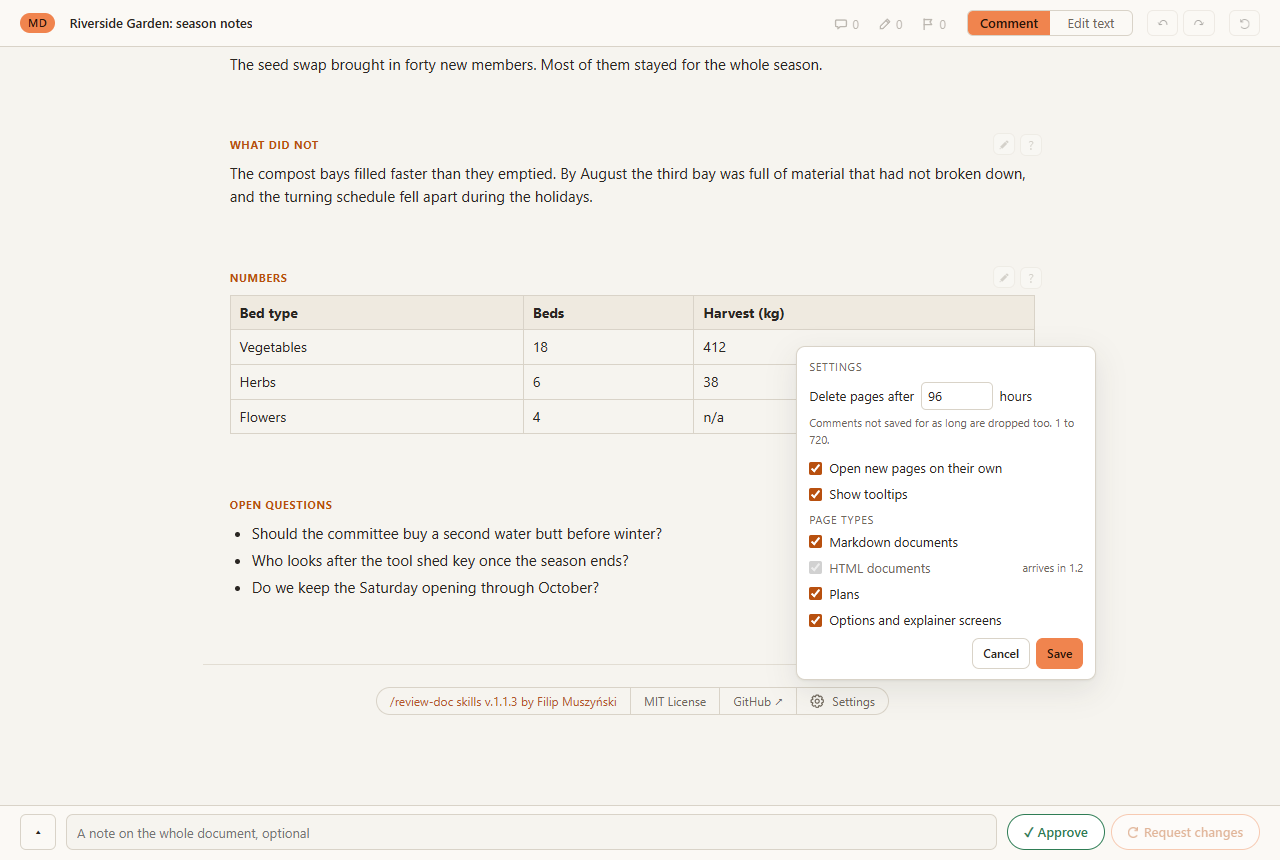
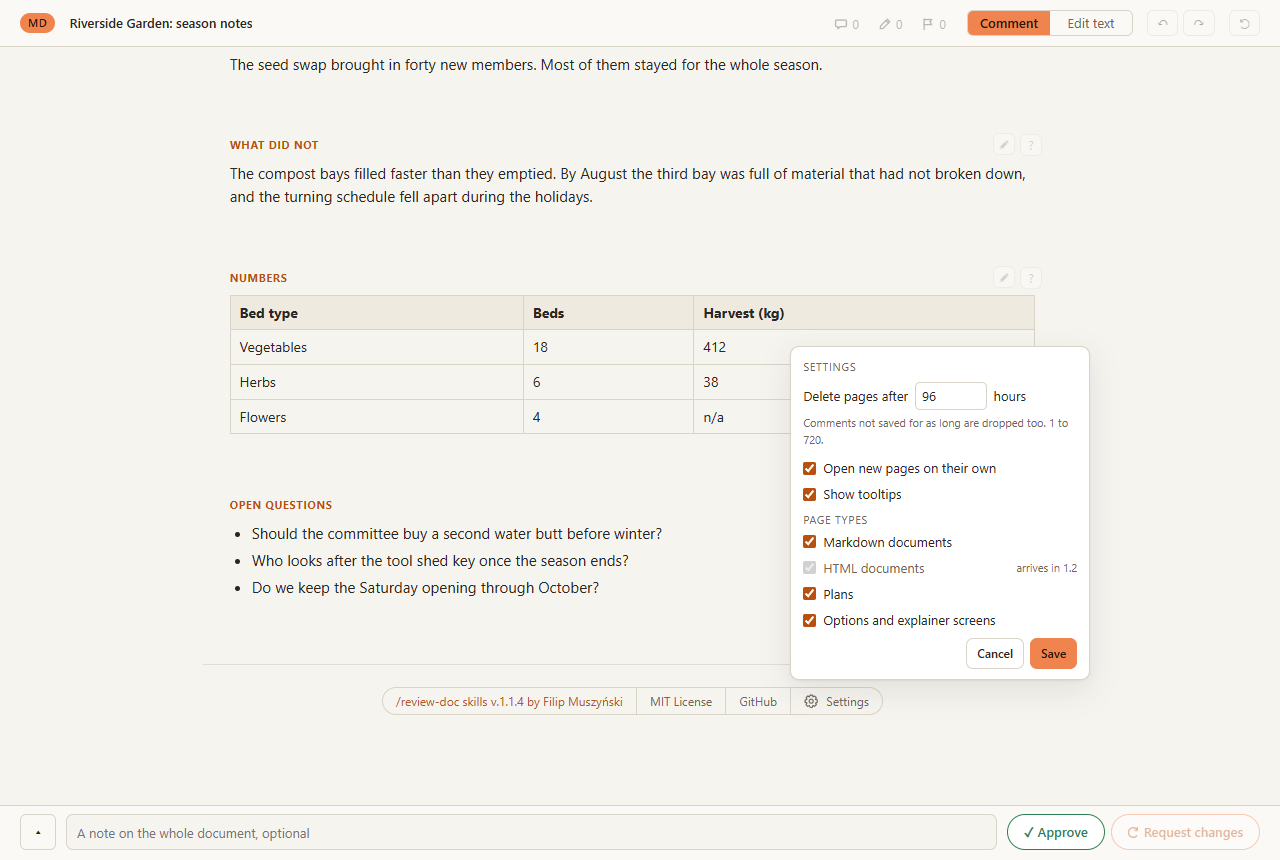
review-doc 1.1.4
Round button at the counters' 5px gap; At a glance buttons on the heading line;
glance cells lower and centred; GitHub credit without the arrow. Screenshots retaken.

Changed region(s): [[0.5938, 0.4233, 0.875, 0.8465], [0.3125, 0.786, 0.4688, 0.8465], [0.5, 0.786, 0.5625, 0.8465]]

diff --git a/plugins/review-doc/presenter/assets/shell.css b/plugins/review-doc/presenter/assets/shell.css
@@ -168,14 +168,16 @@ header > .doc-title { flex-shrink: 1; }
 }
 
 /* The counters are also the navigation, so they have to read as buttons. */
-.counters { display: flex; gap: 5px; }
+.counters { display: flex; gap: var(--counter-gap, 5px); }
 /* The scope toggle, right of the counters: three icons in one box, only the
    current one opaque, so a click cross-fades instead of swapping. It fades in
    the first time a page has an earlier round, growing from no width and taking
    back the row gap in front of it as it goes, so the mode switch slides over
-   instead of jumping. */
-.controls { --ctl-gap: 14px; }
-#cycle-scope { position: relative; width: 30px; padding: 0; display: inline-grid; place-items: center; }
+   instead of jumping. It stands as close to the counters as they stand to each
+   other: the negative margin takes the row gap back down to the counters' gap. */
+.controls { --ctl-gap: 14px; --counter-gap: 5px; }
+#cycle-scope { position: relative; width: 30px; padding: 0; display: inline-grid; place-items: center;
+               margin-left: calc(var(--counter-gap) - var(--ctl-gap)); }
 /* No frame either: the icon is drawn in the edit orange, the colour of the
    current round's marks, and hover lays the same orange plate as the edit
    counter. The id beats .iconbtn, so its border and hover need no !important. */
@@ -191,7 +193,7 @@ header > .doc-title { flex-shrink: 1; }
 #cycle-scope[data-scope="all"] .sc-all { opacity: 1; }
 @keyframes scope-in {
   from { opacity: 0; width: 0; margin-left: calc(-1 * var(--ctl-gap, 14px)); }
-  to { opacity: 1; width: 30px; margin-left: 0; }
+  to { opacity: 1; width: 30px; margin-left: calc(var(--counter-gap, 5px) - var(--ctl-gap, 14px)); }
 }
 @media (prefers-reduced-motion: reduce) {
   #cycle-scope.is-new { animation: none; }
@@ -648,8 +650,14 @@ main { min-height: 0; }
 .sec[data-sec="__meta"] td > :last-child { margin-bottom: 0; }
 .sec.glance .glance-notes { margin-bottom: .9em; }
 .sec.glance .glance-notes > :first-child { margin-top: 0; }
-.sec.glance td > :first-child { margin-top: 0; }
-.sec.glance td > :last-child { margin-bottom: 0; }
+/* A document's cell holds a paragraph, and `#doc p` gives it a bottom margin
+   that outweighs a class rule, which left an empty strip under every value.
+   The #doc prefix wins it back. The text then sits in the middle of its cell,
+   in plans too, with a little less padding than an ordinary table. */
+#doc .sec.glance td > :first-child, #doc .sec[data-sec="__meta"] td > :first-child { margin-top: 0; }
+#doc .sec.glance td > :last-child, #doc .sec[data-sec="__meta"] td > :last-child { margin-bottom: 0; }
+#doc .sec.glance th, #doc .sec.glance td,
+#doc .sec[data-sec="__meta"] th, #doc .sec[data-sec="__meta"] td { vertical-align: middle; padding-top: .36em; padding-bottom: .36em; }
 .sec-tools { margin-left: auto; display: flex; gap: calc(15px * var(--zoom, 1) * .37); align-items: center; }
 
 /* The controls stay quiet until the section is hovered or a decision is on
@@ -691,8 +699,11 @@ main { min-height: 0; }
 /* The heading sits where the eyebrow sat, on the line of the tick and the
    pencil, so their row is lifted out of the flow and pinned top right. Only
    when the block has a heading: an intro's tools would otherwise sit on top
-   of its first line. */
-.plain .sec:has(> h2[data-sec], > h3[data-sec]) > .sec-tag {
+   of its first line. The At a glance box's heading carries no data-sec (its
+   block is the intro's), so it is named here as well, or its ✎ and ? would
+   stand on a row of their own above "At a glance". */
+.plain .sec:has(> h2[data-sec], > h3[data-sec]) > .sec-tag,
+.plain .sec.glance > .sec-tag {
   position: absolute;
   top: .91em;
   right: 1.73em;

diff --git a/plugins/review-doc/tests/run.py b/plugins/review-doc/tests/run.py
@@ -796,7 +796,9 @@ def test_section_headings_are_lettered_as_the_eyebrow():
                  "font-weight: 700;", "color: var(--accent-ink);"):
         assert decl in rule, decl
     assert '#doc .plain .sec[data-kind="task"] > h2[data-sec],' in css, "tasks keep the eyebrow blue"
-    assert ".plain .sec:has(> h2[data-sec], > h3[data-sec]) > .sec-tag {" in css,         "the heading shares the line of the tick and pencil"
+    assert (".plain .sec:has(> h2[data-sec], > h3[data-sec]) > .sec-tag,\n"
+            ".plain .sec.glance > .sec-tag {") in css, \
+        "the heading shares the line of the tick and pencil, in the At a glance box too"
     doc = css.split(chr(10) + "#doc {")[1].split("}")[0]
     assert "padding: 28px 20px 90px;" in doc, "a section frame keeps 20px from the edge"
     sub = css.split('.plain .sec[data-kind="sub"] {')[1].split("}")[0]
@@ -2120,6 +2122,10 @@ def test_scope_button_slides_in_from_nothing():
     assert "opacity: 0" in frm and "width: 0" in frm, kf
     assert "margin-left: calc(-1 * var(--ctl-gap, 14px))" in frm, "the gap closes too, so the switch slides"
     assert "--ctl-gap: 8px" in c, "the narrow header has the smaller gap"
+    to = kf[kf.index(" to "):]
+    assert "margin-left: calc(var(--counter-gap, 5px) - var(--ctl-gap, 14px))" in to, kf
+    assert ".counters { display: flex; gap: var(--counter-gap, 5px); }" in c
+    assert "margin-left: calc(var(--counter-gap) - var(--ctl-gap));" in c, "it sits at the counters' gap"
     rm = c[c.index("#cycle-scope.is-new { animation: scope-in"):]
     rm = rm[rm.index("@media (prefers-reduced-motion: reduce)"):]
     assert "#cycle-scope.is-new { animation: none; }" in rm[:200]

diff --git a/plugins/review-doc/tests/test_page.py b/plugins/review-doc/tests/test_page.py
@@ -227,6 +227,16 @@ def test_glance_blocks_sit_tight_in_their_cells():
 
 
 @test
+def test_glance_cells_centre_their_text():
+    c = css()
+    # `#doc p` carries a bottom margin at (1,0,1); without the #doc prefix the
+    # document box's paragraphs kept it and every cell had an empty strip.
+    assert "#doc .sec.glance td > :last-child, #doc .sec[data-sec=\"__meta\"] td > :last-child { margin-bottom: 0; }" in c
+    rule = c.split("#doc .sec[data-sec=\"__meta\"] th, #doc .sec[data-sec=\"__meta\"] td {", 1)[1].split("}", 1)[0]
+    assert "vertical-align: middle;" in rule, rule
+
+
+@test
 def test_tooltips_can_be_switched_off():
     src = js()
     show = src.split("function showTip(el) {", 1)[1][:200]

diff --git a/plugins/review-doc/presenter/shell.py b/plugins/review-doc/presenter/shell.py
@@ -180,7 +180,7 @@ def _credit_html(version):
     ver = (' <span class="credit-version">v.%s</span>' % _esc(version)) if version else ""
     parts = ['<span class="credit-seg">/review-doc skills' + ver + " by Filip Muszyński</span>",
              link.format(LICENSE_URL, "MIT License"),
-             link.format(REPO_URL, "GitHub&nbsp;&#8599;"),
+             link.format(REPO_URL, "GitHub"),
              '<button type="button" class="credit-seg credit-settings credit-tail" id="open-settings" '
              'aria-haspopup="dialog" data-tip="Settings for every review page">'
              '<svg class="credit-gear" viewBox="0 0 16 16" aria-hidden="true">'

diff --git a/CHANGELOG.md b/CHANGELOG.md
@@ -6,6 +6,18 @@ and the project uses [Semantic Versioning](https://semver.org/).
 
 ## [Unreleased]
 
+## [1.1.4] - 2026-10-01
+
+### Changed
+- The round button stands as close to the counters as the counters stand to each other.
+
+### Fixed
+- In a document's At a glance box, the ✎ and ? buttons sit on the "At a glance" line like
+  every other section's, instead of on a row of their own above it.
+- The GitHub part of the credit line drops its ↗ arrow.
+- The At a glance table's cells are lower and their text sits in the middle. A document's
+  cell kept an empty strip under its text, because the paragraph margin was never reset.
+
 ## [1.1.3] - 2026-10-01
 
 ### Changed
